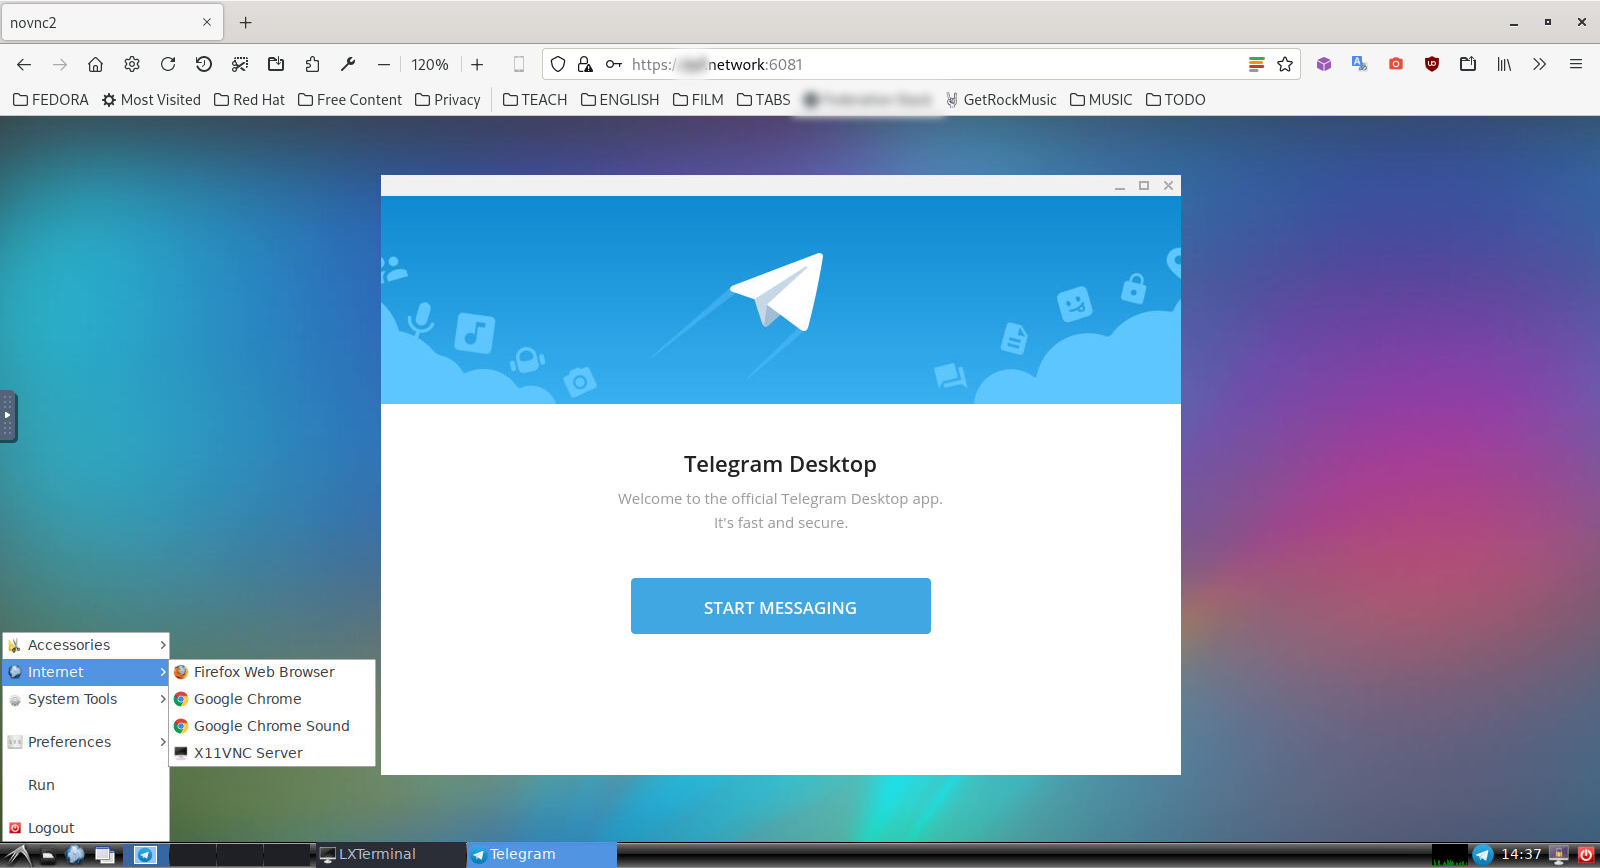
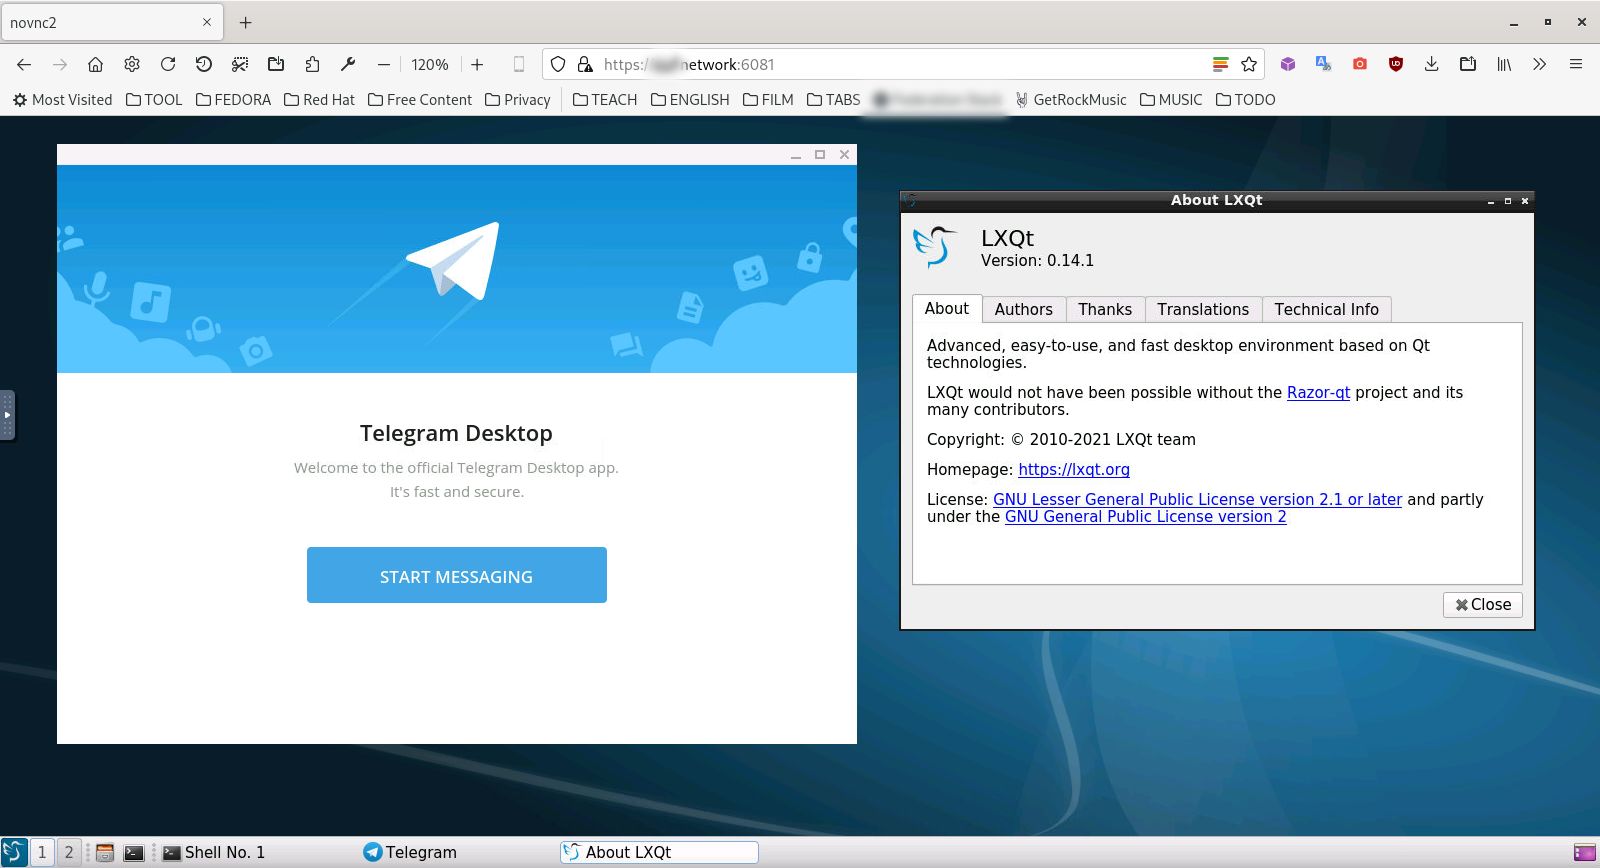
add LXQT

diff --git a/README.md b/README.md
@@ -1,14 +1,8 @@
-## TLXDE
+## TLXQT
 
-Run telegram and [LXDE](https://github.com/rojenzaman/tlxde/tree/lxde)/[LXQT](https://github.com/rojenzaman/tlxde/tree/lxqt) desktop environment on the web interface via using docker.
+Run telegram and [LXQT](https://github.com/rojenzaman/tlxde/tree/lxqt)/[LXDE](https://github.com/rojenzaman/tlxde/tree/lxde) desktop environment on the web interface via using docker.
 
 ![screenshot](disk/screenshot.png)
-
-### LXDE
-
-```bash
-$ git clone --single-branch --branch lxde https://github.com/rojenzaman/tlxde.git
-```
 
 ### LXQT
 
@@ -16,11 +10,18 @@ $ git clone --single-branch --branch lxde https://github.com/rojenzaman/tlxde.gi
 $ git clone --single-branch --branch lxqt https://github.com/rojenzaman/tlxde.git
 ```
 
+### LXDE
+
+```bash
+$ git clone --single-branch --branch lxde https://github.com/rojenzaman/tlxde.git
+```
+
 ### First generate self signed SSL certificate,
 
 ```bash
 $ ./ssl.sh
 ```
+
 ### Then build and deploy the docker-compose stack.
 
 ```
